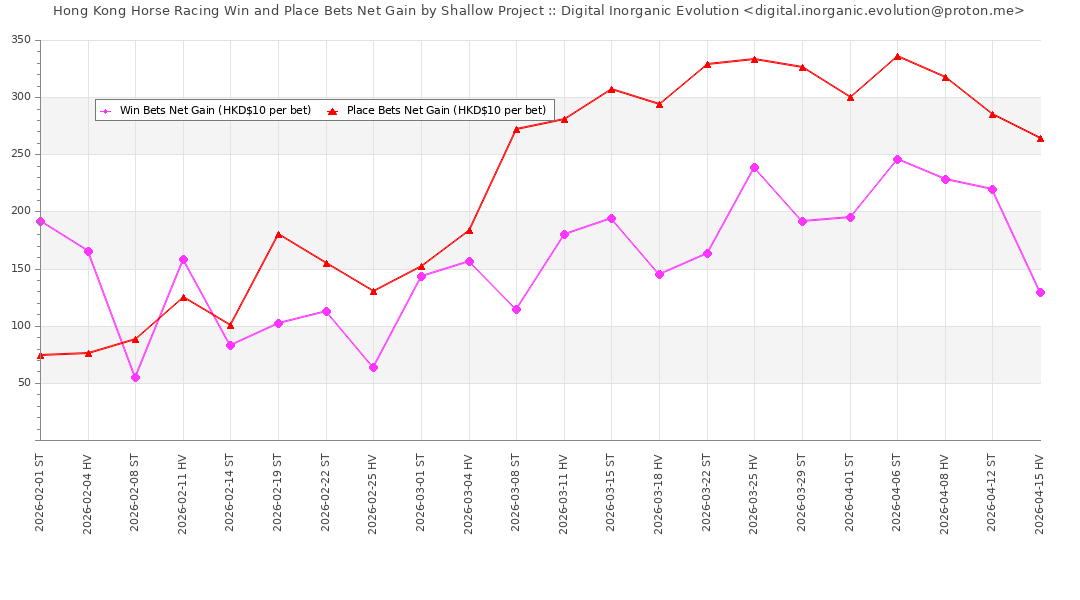
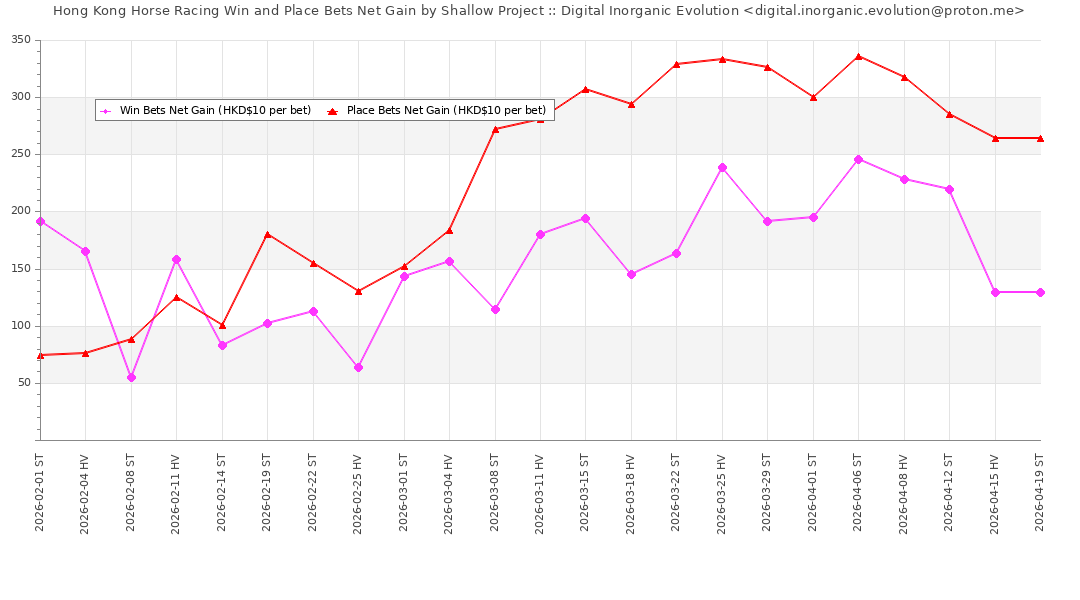
2026/04/19 Predictions

diff --git a/index.html b/index.html
@@ -182,6 +182,83 @@ The survival comparison assumes an energy consumption per hunting of HKD $10 eac
 </tr>
 </thead>
 <tbody>
+<tr><td>2026-04-19</td><td>1</td><td> /  / </td><td></td>
+<td></td>
+<td></td>
+<td></td>
+<td  bgcolor=Beige >10</td>
+<td  bgcolor=Lavender >4</td>
+<td>0</td><td>0</td></tr>
+<tr><td>2026-04-19</td><td>2</td><td> /  / </td><td></td>
+<td></td>
+<td></td>
+<td></td>
+<td  bgcolor=Beige >9</td>
+<td  bgcolor=Lavender >11</td>
+<td>0</td><td>0</td></tr>
+<tr><td>2026-04-19</td><td>3</td><td> /  / </td><td></td>
+<td></td>
+<td></td>
+<td></td>
+<td  bgcolor=Beige >1</td>
+<td  bgcolor=Lavender >1</td>
+<td>0</td><td>0</td></tr>
+<tr><td>2026-04-19</td><td>4</td><td> /  / </td><td></td>
+<td></td>
+<td></td>
+<td></td>
+<td  bgcolor=Beige >10</td>
+<td  bgcolor=Lavender >2</td>
+<td>0</td><td>0</td></tr>
+<tr><td>2026-04-19</td><td>5</td><td> /  / </td><td></td>
+<td></td>
+<td></td>
+<td></td>
+<td  bgcolor=Beige >11</td>
+<td  bgcolor=Lavender >11</td>
+<td>0</td><td>0</td></tr>
+<tr><td>2026-04-19</td><td>6</td><td> /  / </td><td></td>
+<td></td>
+<td></td>
+<td></td>
+<td  bgcolor=Beige >5</td>
+<td  bgcolor=Lavender >11</td>
+<td>0</td><td>0</td></tr>
+<tr><td>2026-04-19</td><td>7</td><td> /  / </td><td></td>
+<td></td>
+<td></td>
+<td></td>
+<td  bgcolor=Beige >10</td>
+<td  bgcolor=Lavender >1</td>
+<td>0</td><td>0</td></tr>
+<tr><td>2026-04-19</td><td>8</td><td> /  / </td><td></td>
+<td></td>
+<td></td>
+<td></td>
+<td  bgcolor=Beige >6</td>
+<td  bgcolor=Lavender >6</td>
+<td>0</td><td>0</td></tr>
+<tr><td>2026-04-19</td><td>9</td><td> /  / </td><td></td>
+<td></td>
+<td></td>
+<td></td>
+<td  bgcolor=Beige >4</td>
+<td  bgcolor=Lavender >4</td>
+<td>0</td><td>0</td></tr>
+<tr><td>2026-04-19</td><td>10</td><td> /  / </td><td></td>
+<td></td>
+<td></td>
+<td></td>
+<td  bgcolor=Beige >5</td>
+<td  bgcolor=Lavender >2</td>
+<td>0</td><td>0</td></tr>
+<tr><td>2026-04-19</td><td>11</td><td> /  / </td><td></td>
+<td></td>
+<td></td>
+<td></td>
+<td  bgcolor=Beige >4</td>
+<td  bgcolor=Lavender >6</td>
+<td>0</td><td>0</td></tr>
 <tr><td>2026-04-15</td><td>1</td><td>6 / 5 / 4</td><td>49.00</td>
 <td>18.50</td>
 <td>15.00</td>
@@ -1727,7 +1804,7 @@ The survival comparison assumes an energy consumption per hunting of HKD $10 eac
 <p>
 <a href="https://github.com/Digital-Inorganic-Evolution/Digital-Inorganic-Evolution.github.io/commits/main/" target="_blank">Check Commits on GitHub</a>
 <p>
-<h4>Generated at HKT 2026-04-16 00:55:26</h4>
+<h4>Generated at HKT 2026-04-19 09:39:19</h4>
 	
 <script src="https://code.jquery.com/jquery-3.7.1.min.js"></script>
 <script type="text/javascript" src="https://cdn.datatables.net/2.3.7/js/dataTables.min.js"></script>  
